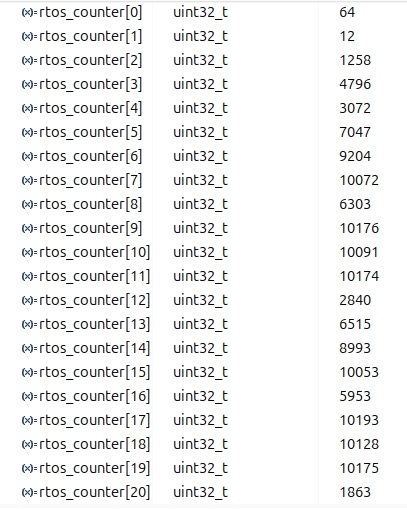
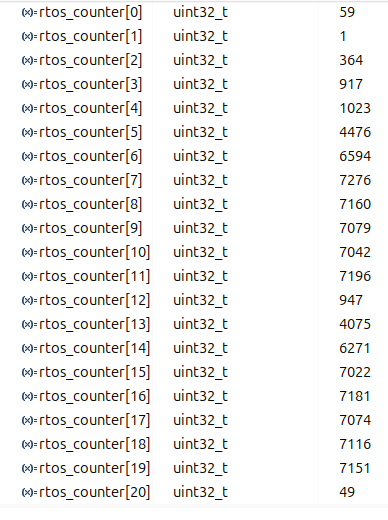
Analyze priorities and starvation

Changed region(s): [[0.0309, 0.0, 0.5876, 1.0], [0.8351, 0.0589, 0.9588, 1.0], [0.8351, 0.0, 0.9278, 0.0295]]

diff --git a/Src/stub_tasks.c b/Src/stub_tasks.c
@@ -14,9 +14,10 @@ void stub_task_0(void *arg)
     //Priority is: 0. Set in tasks.c
     while (1){
         time_now = timebase_show_ms();
-        uint16_t delay = 1 + (lfsr_next()%3); //delay between 1-3ms
+        uint16_t delay = 1 + (lfsr_next()%STUB_DELAY);
         rtos_delay(delay);
         time_now = timebase_show_ms();
+        for (int i = 0; i< STUB_LOOP; i++){}; //Add some runtime delay
         (void) time_now;
     }
 }
@@ -27,9 +28,10 @@ void stub_task_1(void *arg)
     //Priority is: 1. Set in tasks.c
     while (1){
         time_now = timebase_show_ms();
-        uint16_t delay = 1 + (lfsr_next()%3); //delay between 1-3ms
+        uint16_t delay = 1 + (lfsr_next()%STUB_DELAY);
         rtos_delay(delay);
         time_now = timebase_show_ms();
+        for (int i = 0; i< STUB_LOOP; i++){}; //Add some runtime delay
         (void) time_now;
     }
 }
@@ -40,9 +42,10 @@ void stub_task_2(void *arg)
     //Priority is: 2. Set in tasks.c
     while (1){
         time_now = timebase_show_ms();
-        uint16_t delay = 1 + (lfsr_next()%3); //delay between 1-3ms
+        uint16_t delay = 1 + (lfsr_next()%STUB_DELAY);
         rtos_delay(delay);
         time_now = timebase_show_ms();
+        for (int i = 0; i< STUB_LOOP; i++){}; //Add some runtime delay
         (void) time_now;
     }
 }
@@ -53,9 +56,10 @@ void stub_task_3(void *arg)
     //Priority is: 3. Set in tasks.c
     while (1){
         time_now = timebase_show_ms();
-        uint16_t delay = 1 + (lfsr_next()%3); //delay between 1-3ms
+        uint16_t delay = 1 + (lfsr_next()%STUB_DELAY);
         rtos_delay(delay);
         time_now = timebase_show_ms();
+        for (int i = 0; i< STUB_LOOP; i++){}; //Add some runtime delay
         (void) time_now;
     }
 }
@@ -66,9 +70,10 @@ void stub_task_4(void *arg)
     //Priority is: 4. Set in tasks.c
     while (1){
         time_now = timebase_show_ms();
-        uint16_t delay = 1 + (lfsr_next()%3); //delay between 1-3ms
+        uint16_t delay = 1 + (lfsr_next()%STUB_DELAY);
         rtos_delay(delay);
         time_now = timebase_show_ms();
+        for (int i = 0; i< STUB_LOOP; i++){}; //Add some runtime delay
         (void) time_now;
     }
 }
@@ -79,9 +84,10 @@ void stub_task_5(void *arg)
     //Priority is: 5. Set in tasks.c
     while (1){
         time_now = timebase_show_ms();
-        uint16_t delay = 1 + (lfsr_next()%3); //delay between 1-3ms
+        uint16_t delay = 1 + (lfsr_next()%STUB_DELAY);
         rtos_delay(delay);
         time_now = timebase_show_ms();
+        for (int i = 0; i< STUB_LOOP; i++){}; //Add some runtime delay
         (void) time_now;
     }
 }
@@ -92,9 +98,10 @@ void stub_task_6(void *arg)
     //Priority is: 6. Set in tasks.c
     while (1){
         time_now = timebase_show_ms();
-        uint16_t delay = 1 + (lfsr_next()%3); //delay between 1-3ms
+        uint16_t delay = 1 + (lfsr_next()%STUB_DELAY);
         rtos_delay(delay);
         time_now = timebase_show_ms();
+        for (int i = 0; i< STUB_LOOP; i++){}; //Add some runtime delay
         (void) time_now;
     }
 }
@@ -105,9 +112,10 @@ void stub_task_7(void *arg)
     //Priority is: 7. Set in tasks.c
     while (1){
         time_now = timebase_show_ms();
-        uint16_t delay = 1 + (lfsr_next()%3); //delay between 1-3ms
+        uint16_t delay = 1 + (lfsr_next()%STUB_DELAY);
         rtos_delay(delay);
         time_now = timebase_show_ms();
+        for (int i = 0; i< STUB_LOOP; i++){}; //Add some runtime delay
         (void) time_now;
     }
 }
@@ -118,9 +126,10 @@ void stub_task_8(void *arg)
     //Priority is: 0. Set in tasks.c
     while (1){
         time_now = timebase_show_ms();
-        uint16_t delay = 1 + (lfsr_next()%3); //delay between 1-3ms
+        uint16_t delay = 1 + (lfsr_next()%STUB_DELAY);
         rtos_delay(delay);
         time_now = timebase_show_ms();
+        for (int i = 0; i< STUB_LOOP; i++){}; //Add some runtime delay
         (void) time_now;
     }
 }
@@ -131,9 +140,10 @@ void stub_task_9(void *arg)
     //Priority is: 1. Set in tasks.c
     while (1){
         time_now = timebase_show_ms();
-        uint16_t delay = 1 + (lfsr_next()%3); //delay between 1-3ms
+        uint16_t delay = 1 + (lfsr_next()%STUB_DELAY);
         rtos_delay(delay);
         time_now = timebase_show_ms();
+        for (int i = 0; i< STUB_LOOP; i++){}; //Add some runtime delay
         (void) time_now;
     }
 }
@@ -144,9 +154,10 @@ void stub_task_10(void *arg)
     //Priority is: 2. Set in tasks.c
     while (1){
         time_now = timebase_show_ms();
-        uint16_t delay = 1 + (lfsr_next()%3); //delay between 1-3ms
+        uint16_t delay = 1 + (lfsr_next()%STUB_DELAY);
         rtos_delay(delay);
         time_now = timebase_show_ms();
+        for (int i = 0; i< STUB_LOOP; i++){}; //Add some runtime delay
         (void) time_now;
     }
 }
@@ -157,9 +168,10 @@ void stub_task_11(void *arg)
     //Priority is: 3. Set in tasks.c
     while (1){
         time_now = timebase_show_ms();
-        uint16_t delay = 1 + (lfsr_next()%3); //delay between 1-3ms
+        uint16_t delay = 1 + (lfsr_next()%STUB_DELAY);
         rtos_delay(delay);
         time_now = timebase_show_ms();
+        for (int i = 0; i< STUB_LOOP; i++){}; //Add some runtime delay
         (void) time_now;
     }
 }
@@ -170,9 +182,10 @@ void stub_task_12(void *arg)
     //Priority is: 4. Set in tasks.c
     while (1){
         time_now = timebase_show_ms();
-        uint16_t delay = 1 + (lfsr_next()%3); //delay between 1-3ms
+        uint16_t delay = 1 + (lfsr_next()%STUB_DELAY);
         rtos_delay(delay);
         time_now = timebase_show_ms();
+        for (int i = 0; i< STUB_LOOP; i++){}; //Add some runtime delay
         (void) time_now;
     }
 }
@@ -183,9 +196,10 @@ void stub_task_13(void *arg)
     //Priority is: 5. Set in tasks.c
     while (1){
         time_now = timebase_show_ms();
-        uint16_t delay = 1 + (lfsr_next()%3); //delay between 1-3ms
+        uint16_t delay = 1 + (lfsr_next()%STUB_DELAY);
         rtos_delay(delay);
         time_now = timebase_show_ms();
+        for (int i = 0; i< STUB_LOOP; i++){}; //Add some runtime delay
         (void) time_now;
     }
 }
@@ -196,9 +210,10 @@ void stub_task_14(void *arg)
     //Priority is: 6. Set in tasks.c
     while (1){
         time_now = timebase_show_ms();
-        uint16_t delay = 1 + (lfsr_next()%3); //delay between 1-3ms
+        uint16_t delay = 1 + (lfsr_next()%STUB_DELAY);
         rtos_delay(delay);
         time_now = timebase_show_ms();
+        for (int i = 0; i< STUB_LOOP; i++){}; //Add some runtime delay
         (void) time_now;
     }
 }
@@ -209,9 +224,11 @@ void stub_task_15(void *arg)
     //Priority is: 7. Set in tasks.c
     while (1){
         time_now = timebase_show_ms();
-        uint16_t delay = 1 + (lfsr_next()%3); //delay between 1-3ms
+        uint16_t delay = 1 + (lfsr_next()%STUB_DELAY);
         rtos_delay(delay);
         time_now = timebase_show_ms();
+        for (int i = 0; i< STUB_LOOP; i++){}; //Add some runtime delay
         (void) time_now;
     }
 }
+

diff --git a/Inc/stub_tasks.h b/Inc/stub_tasks.h
@@ -1,8 +1,10 @@
 #ifndef STUB_TASKS_H_
 #define STUB_TASKS_H_
 
-#define STUB_TASKS_NUM          13
-#define STUB_FIRST_TASK         3
+#define STUB_TASKS_NUM          16
+#define STUB_FIRST_TASK         4
+#define STUB_DELAY              3
+#define STUB_LOOP               10
 
 void stub_task_0 (void *arg);
 void stub_task_1 (void *arg);

diff --git a/README.md b/README.md
@@ -97,8 +97,8 @@ The kernel also includes an **ISR-driven I2C Master FSM**.
 
 ## Debugging & Insights
 
-- Interrupt storms can starve the scheduler if peripheral IRQs are not tightly controlled.  
+- Correct exception stack layout is mandatory for reliable context switching.
+- Interrupt storms can starve the scheduler if peripheral IRQs are not tightly controlled.
 - Preemption alone does not ensure fairness — tasks must yield or block to avoid CPU starvation.
-- Correct exception stack layout is mandatory for reliable context switching.  
 - Breakpoints change system timing and hardware behavior (e.g., RXNE flag), so execution may not match real conditions.
 
